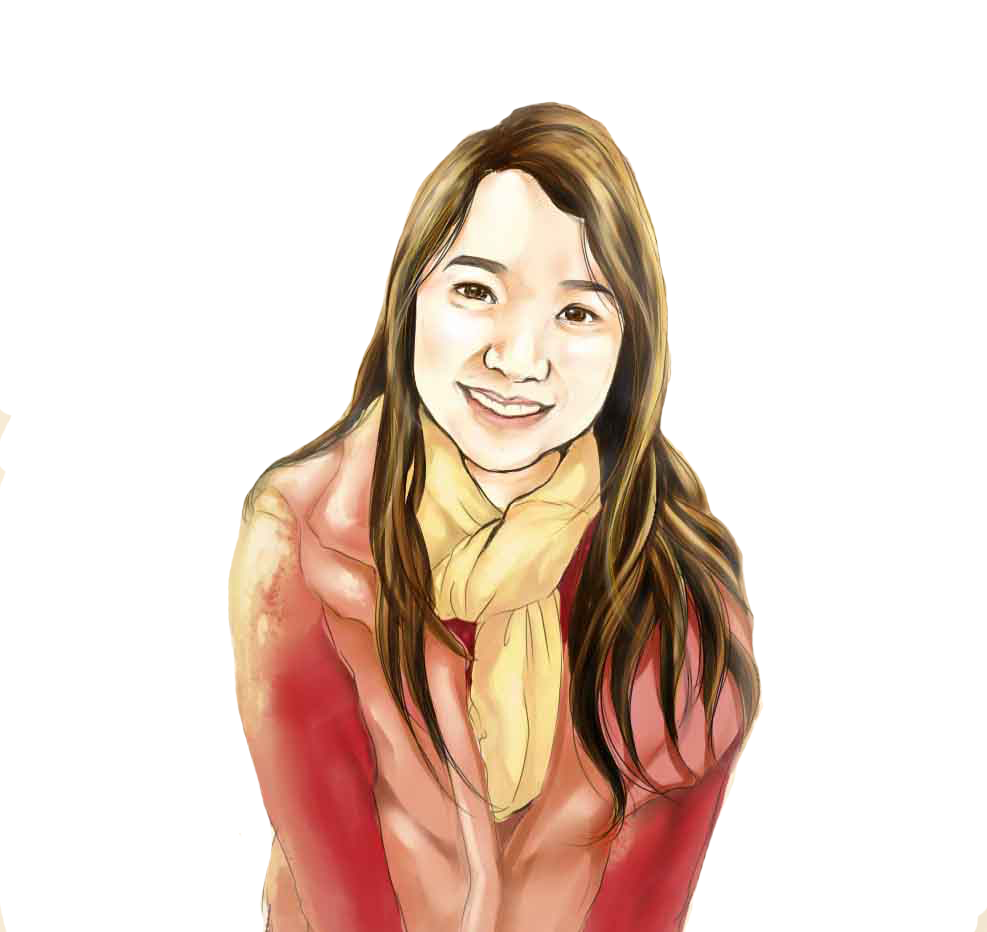
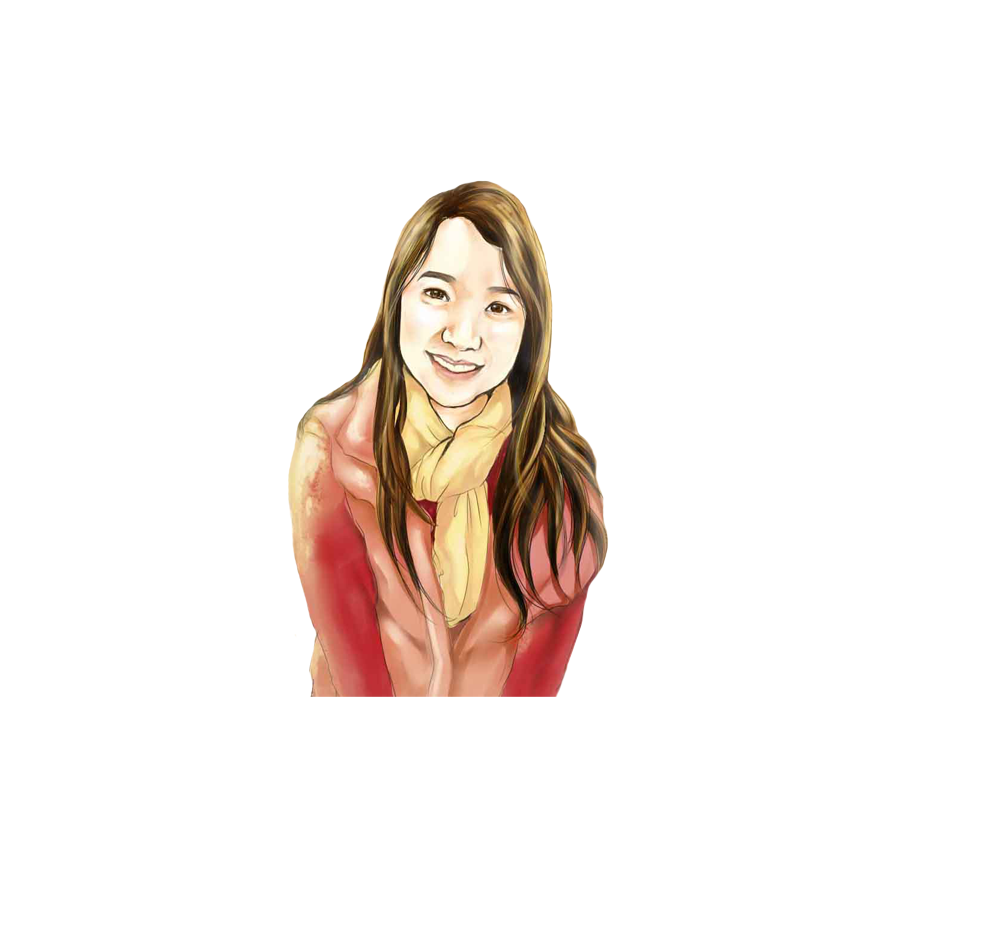
style div img

diff --git a/CSS/aboutme.css b/CSS/aboutme.css
@@ -42,7 +42,7 @@ body {
     top:150px;
     background-color: white;
 }
-#main img{
+div img{
        height:200; 
        width:100 ;
 
